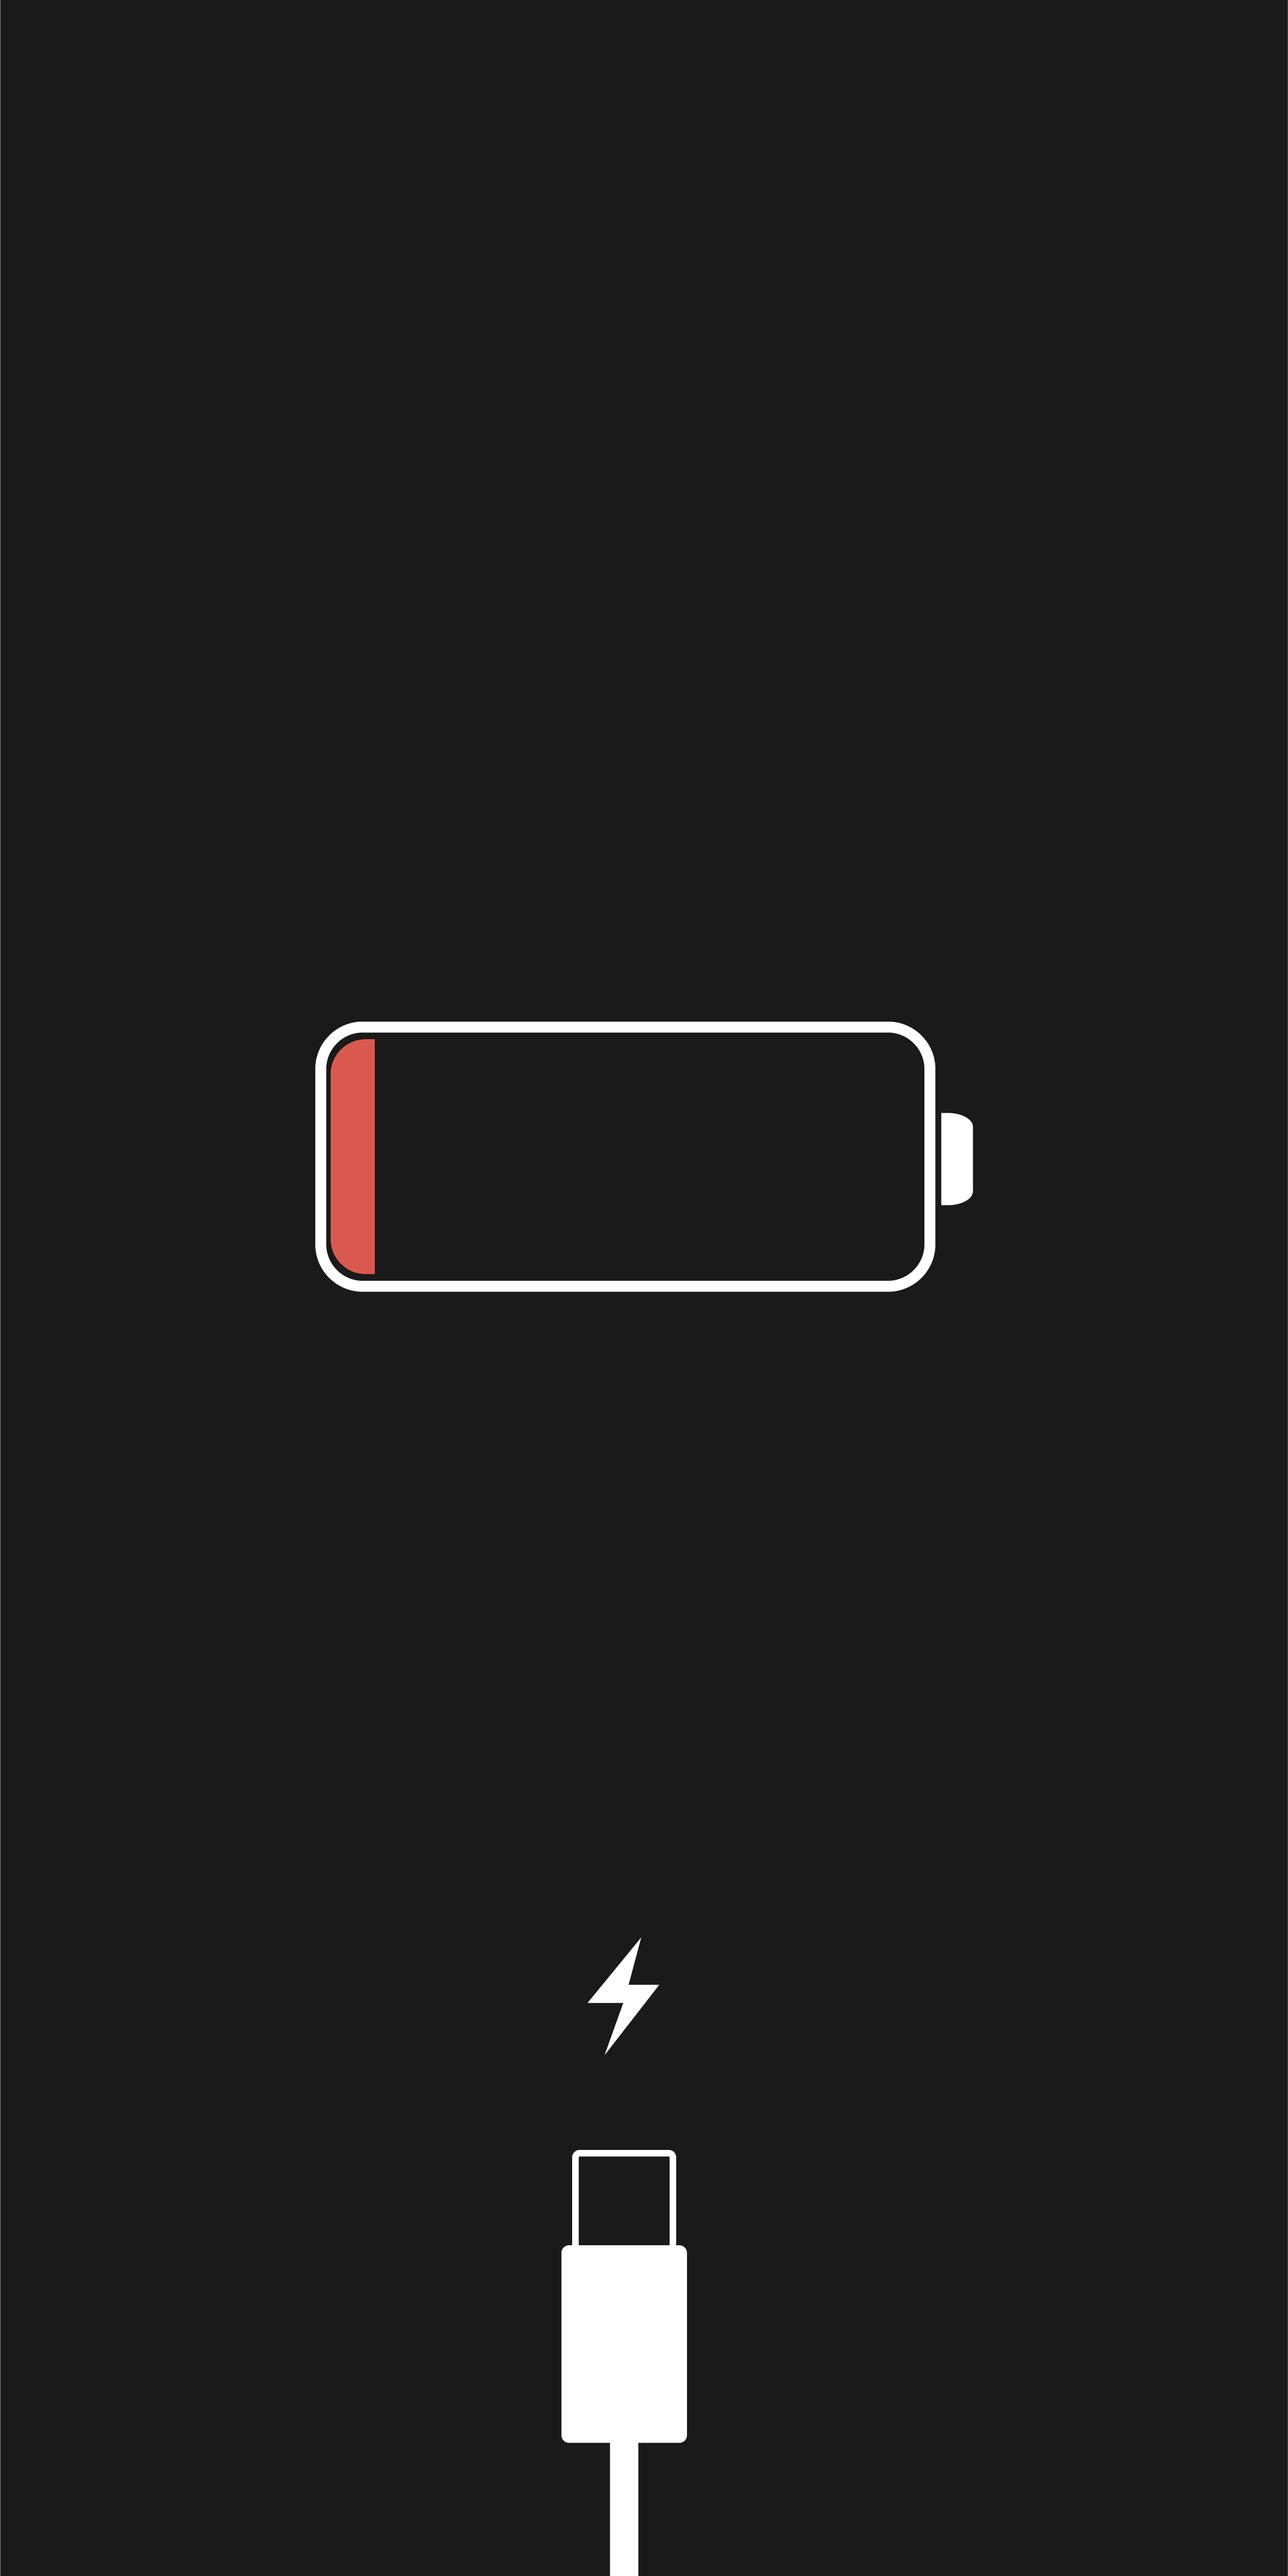
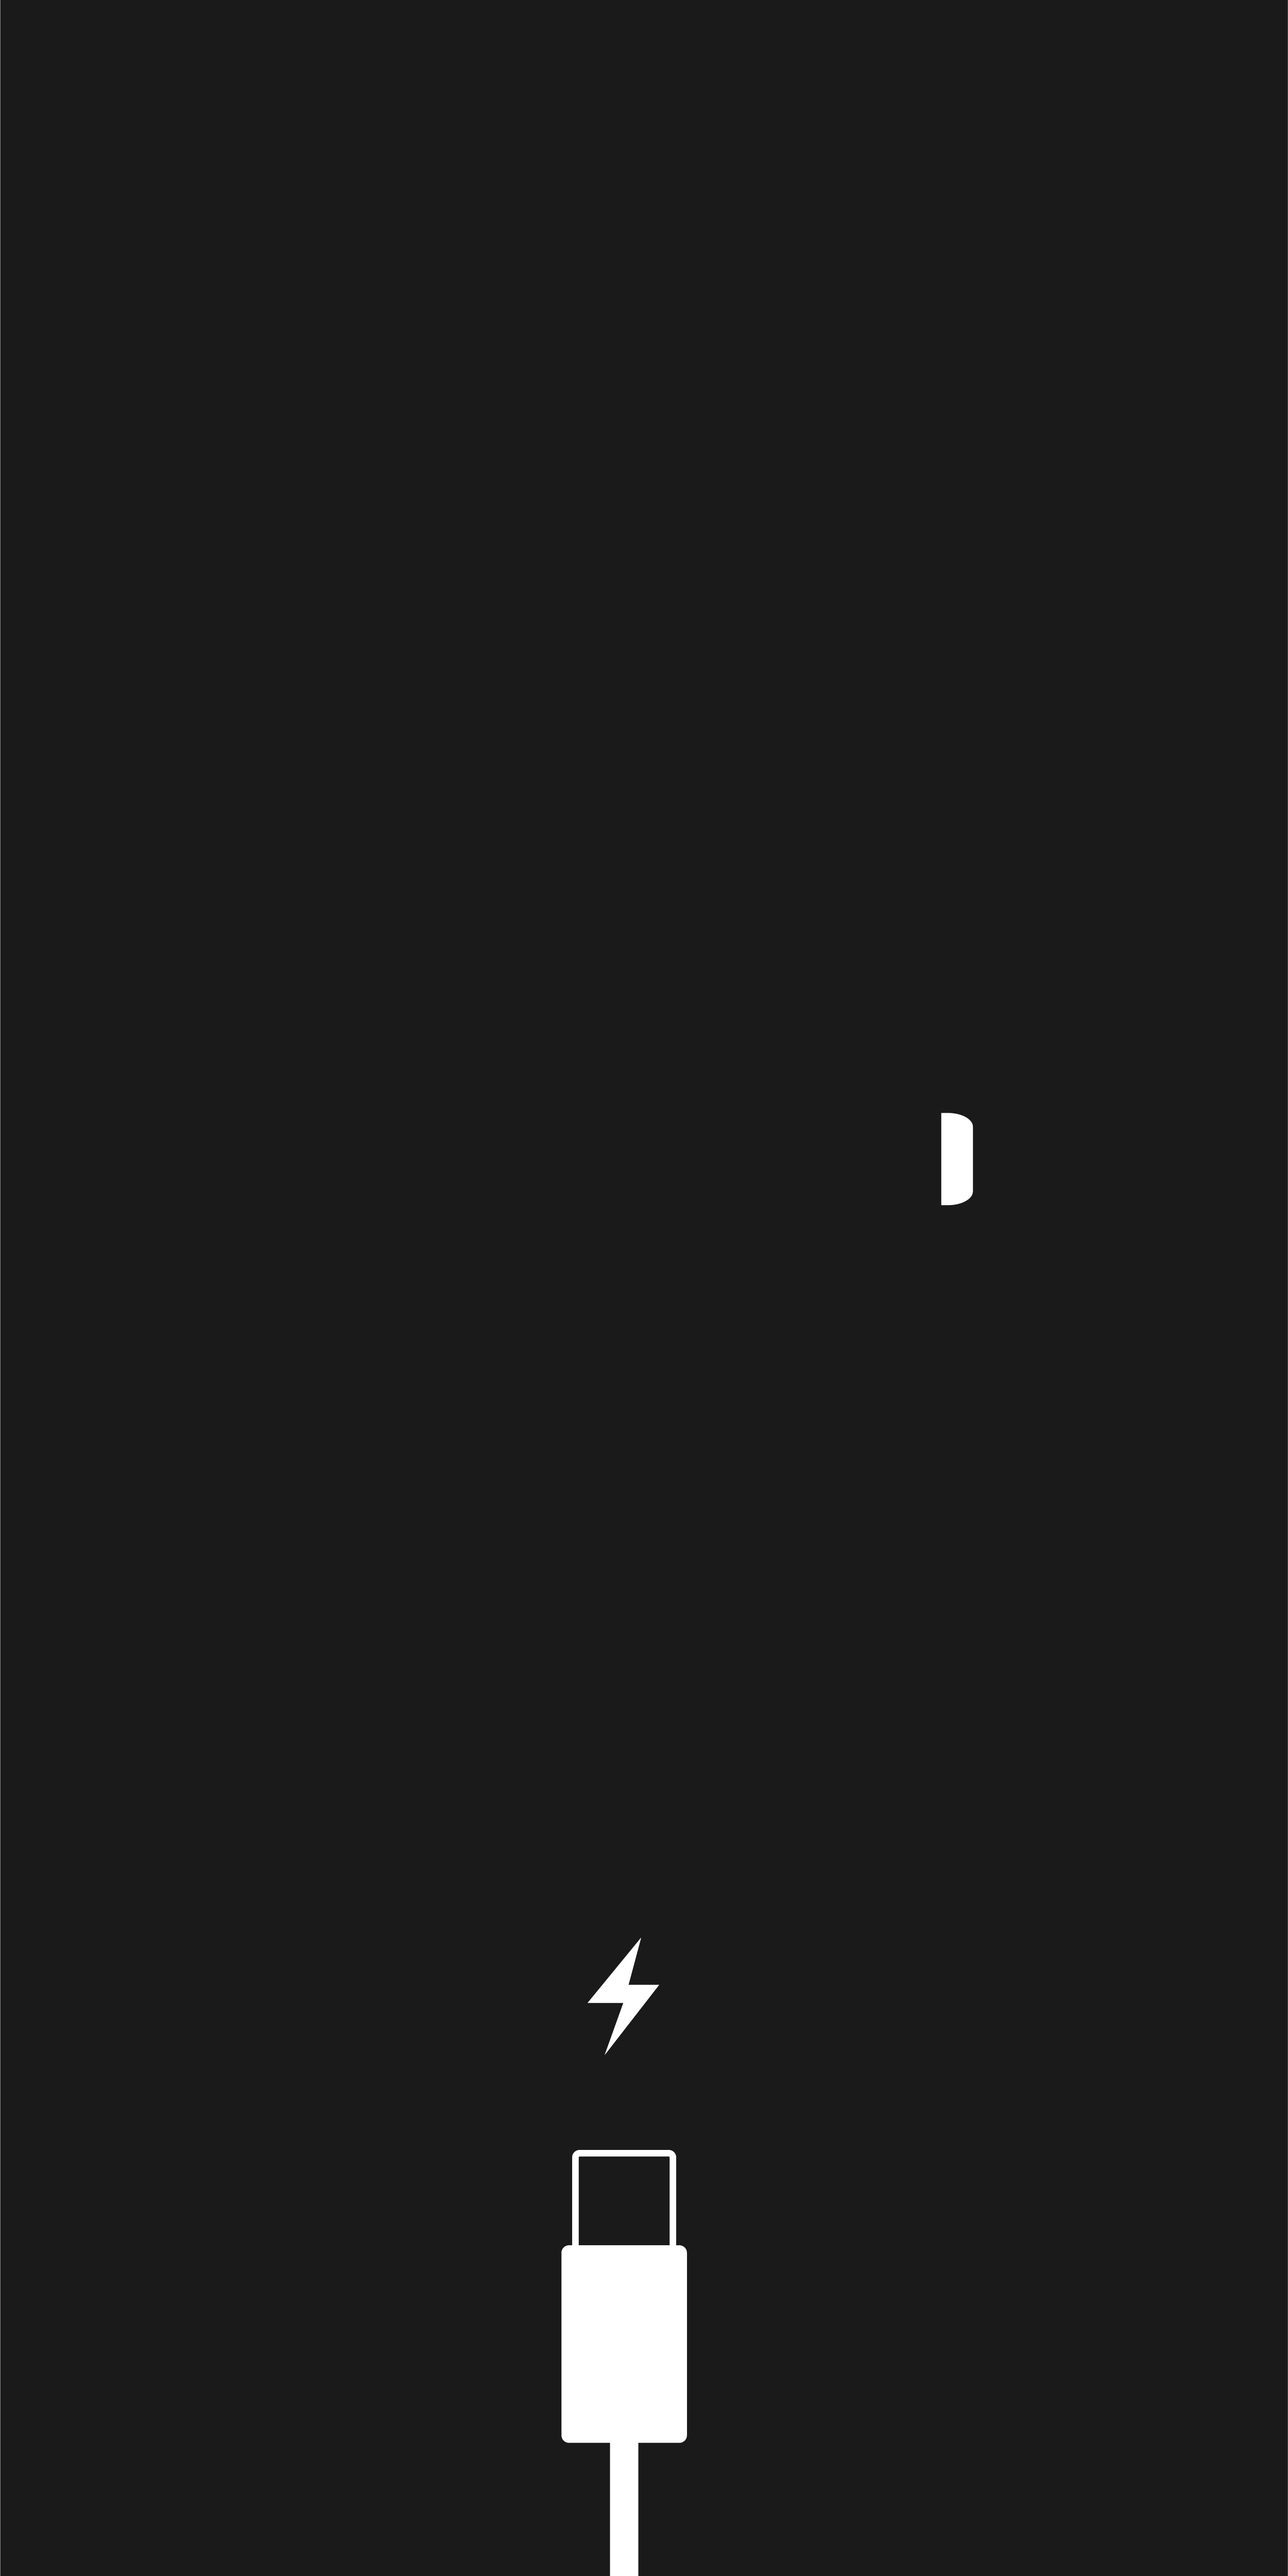
Redesigned canvas logic

Changed region(s): [[0.2183, 0.3744, 0.7173, 0.4992], [0.6861, 0.4056, 0.7485, 0.4992]]

diff --git a/time/src/app/components/battery-charge/battery-charge.ts b/time/src/app/components/battery-charge/battery-charge.ts
@@ -12,7 +12,9 @@ export class BatteryCharge {
     private canvasRef!: ElementRef<HTMLCanvasElement>;
     private ctx!: CanvasRenderingContext2D;
     public isBrowser: boolean;
+    chargeValue = 10;
 
+    // Should fix the "Is not yet implemented" error but gets a TypeError instead
     constructor(@Inject(PLATFORM_ID) platformId: Object) {
         this.isBrowser = isPlatformBrowser(platformId);
     }
@@ -23,9 +25,27 @@ export class BatteryCharge {
         this.drawSample();
     }
 
-    private drawSample(): void {
-        this.ctx.fillStyle = '#e05c4c';
+    sleep(delay: number) {
+        return new Promise((resolve) => setTimeout(resolve, delay));
+    }
+
+    private async drawSample(): Promise<void> {
         // Min 10 width, Max 140 width
-        this.ctx.fillRect(76, 240, 10, 59);
+        // Yellow: #FADF63 @ 50% progress
+        // Green: #57C75C @ 75% progress
+        this.ctx.lineWidth = 3;
+        this.ctx.strokeStyle = 'white';
+        this.ctx.strokeRect(75, 240, 140, 59);
+
+        while (this.chargeValue <= 136) {
+            if (this.chargeValue < 70) this.ctx.fillStyle = '#E05C4C';
+            else if (this.chargeValue < 100) this.ctx.fillStyle = '#FADF63';
+            else this.ctx.fillStyle = '#57C75C';
+
+            this.ctx.fillRect(77, 241, this.chargeValue, 56);
+
+            await this.sleep(25);
+            this.chargeValue += 9;
+        }
     }
 }
